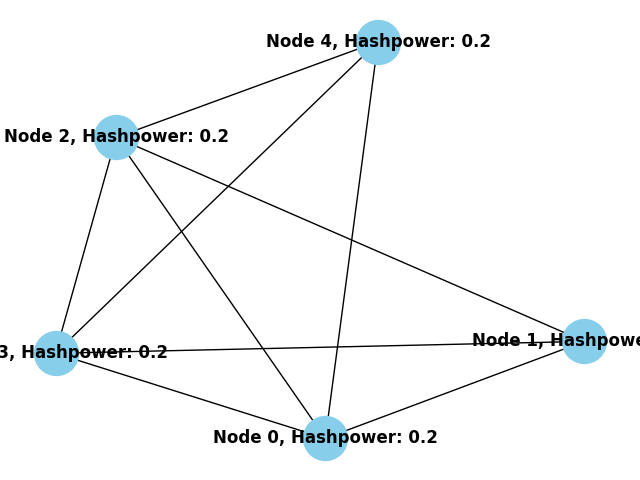
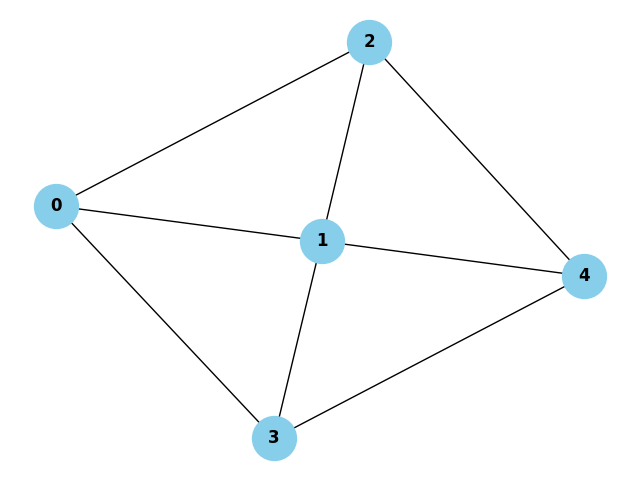
Graphs for Results  added

diff --git a/generateNodesGraph.py b/generateNodesGraph.py
@@ -4,7 +4,8 @@ import matplotlib.pyplot as plt
 def generate_connectivity_graph(nodeArray):
     G = nx.Graph()
     for node in nodeArray: #iterating over the all noe object from the nodeArray list of nodes 
-        G.add_node(node.nodeID, label=f"Node {node.nodeID}, Hashpower: {node.hashPower}")  # we can adjust attributes which to display
+        # G.add_node(node.nodeID, label=f"Node {node.nodeID}, Hashpower: {node.hashPower}")  # we can adjust attributes which to display
+        G.add_node(node.nodeID, label=f"{node.nodeID}")
         for peer in node.peers.keys(): #iteratig over the peers list/dictionary of the current node and add edge between these
             G.add_edge(node.nodeID, peer)
     return G
@@ -21,6 +22,7 @@ def generate_node_connectivity_graph(nodeArray):
     plt.title("Node Connectivity Graph")
 
     # Saving the graph as an image file
+    # plt.savefig("Results/GraphOfNodes/node_connectivity_graph_of_N_Nodes.png")
     plt.savefig("node_connectivity_graph.png")
 
     # To Show the graph
